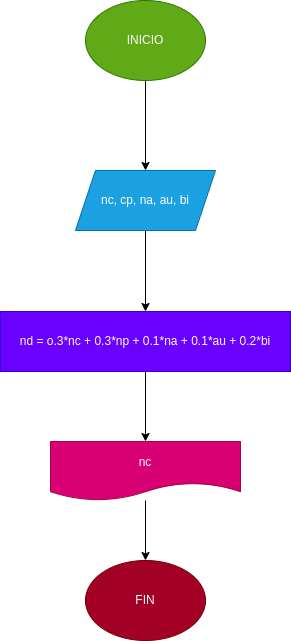
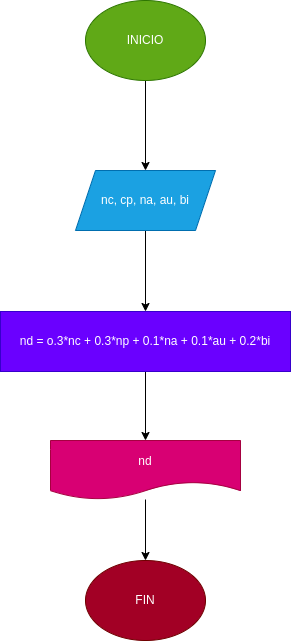
se modifico el driagrama.drawio el diagrama.png y la nota definitiva.py

Changed region(s): [[0.3711, 0.6864, 0.8041, 0.78], [0.1856, 0.7488, 0.3093, 0.78]]

diff --git a/nota_definitiva_asignatura.py b/nota_definitiva_asignatura.py
@@ -1,0 +1,21 @@
+# programa nota definitiva asignatura
+
+print("------------------------------")
+print("--nota definitiva asignatura--")
+print("------------------------------")
+
+#input
+nc = int(input("digite el valor de nc: "))
+cp = int(input("digite el valor de cp: "))
+na = int(input("digite el valor de na: "))
+au = int(input("digite el valor de au: "))
+bi = int(input("digite el valor de bi: "))
+
+#processing
+nd = ("0.3*nc + 0.3*np + 0.1*na + 0.1*au + 0.2*bi")
+
+#output
+print("--------------------")
+print("-----resultados-----")
+print("--------------------")
+
